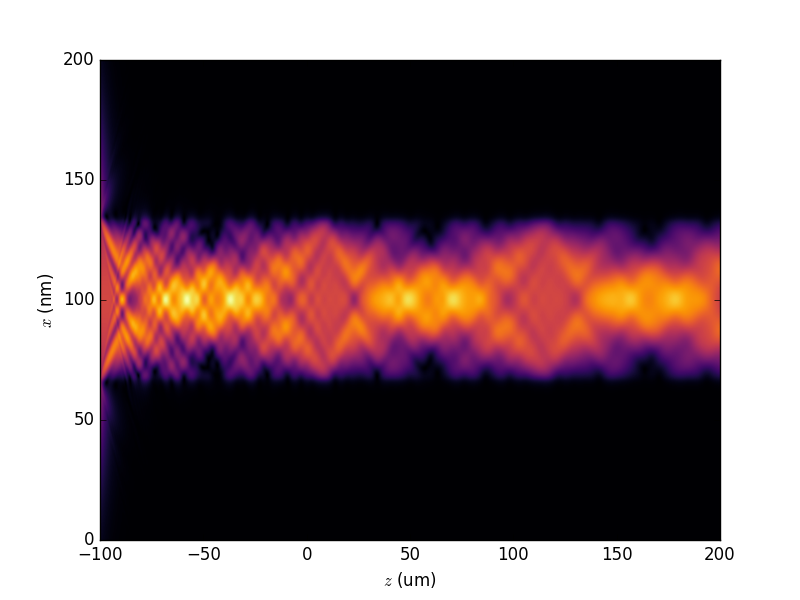
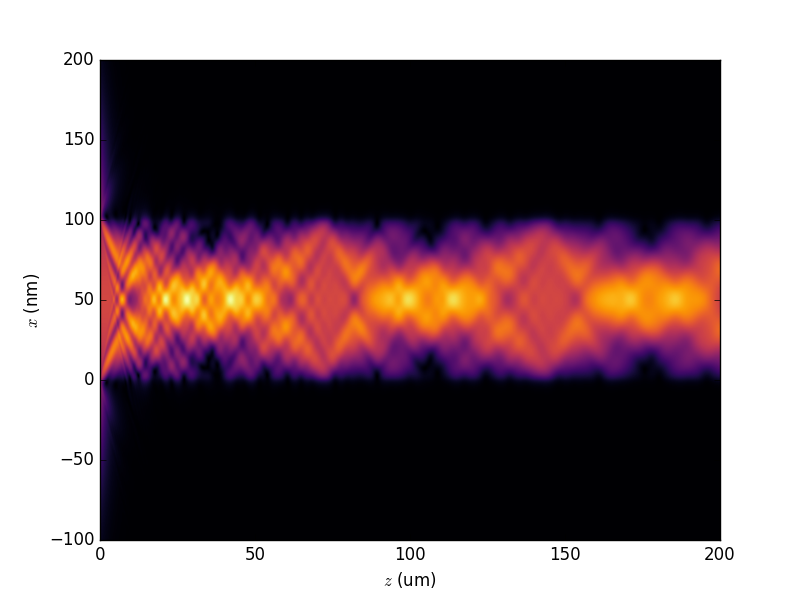
Fixed bug

diff --git a/Scripts/plotWaveguide2D.py b/Scripts/plotWaveguide2D.py
@@ -15,7 +15,7 @@ def main():
 
     fig = plt.figure()
     ax = fig.add_subplot(1,1,1)
-    ax.imshow( intensity.T, cmap="inferno", aspect="auto", extent=[xmin,xmax,zmin,zmax])
+    ax.imshow( intensity.T, cmap="inferno", aspect="auto", extent=[zmin,zmax,xmin,xmax])
     ax.set_xlabel("$z$ (um)")
     ax.set_ylabel("$x$ (nm)")
     plt.savefig("Fig/waveguide2DIntensity.png")
